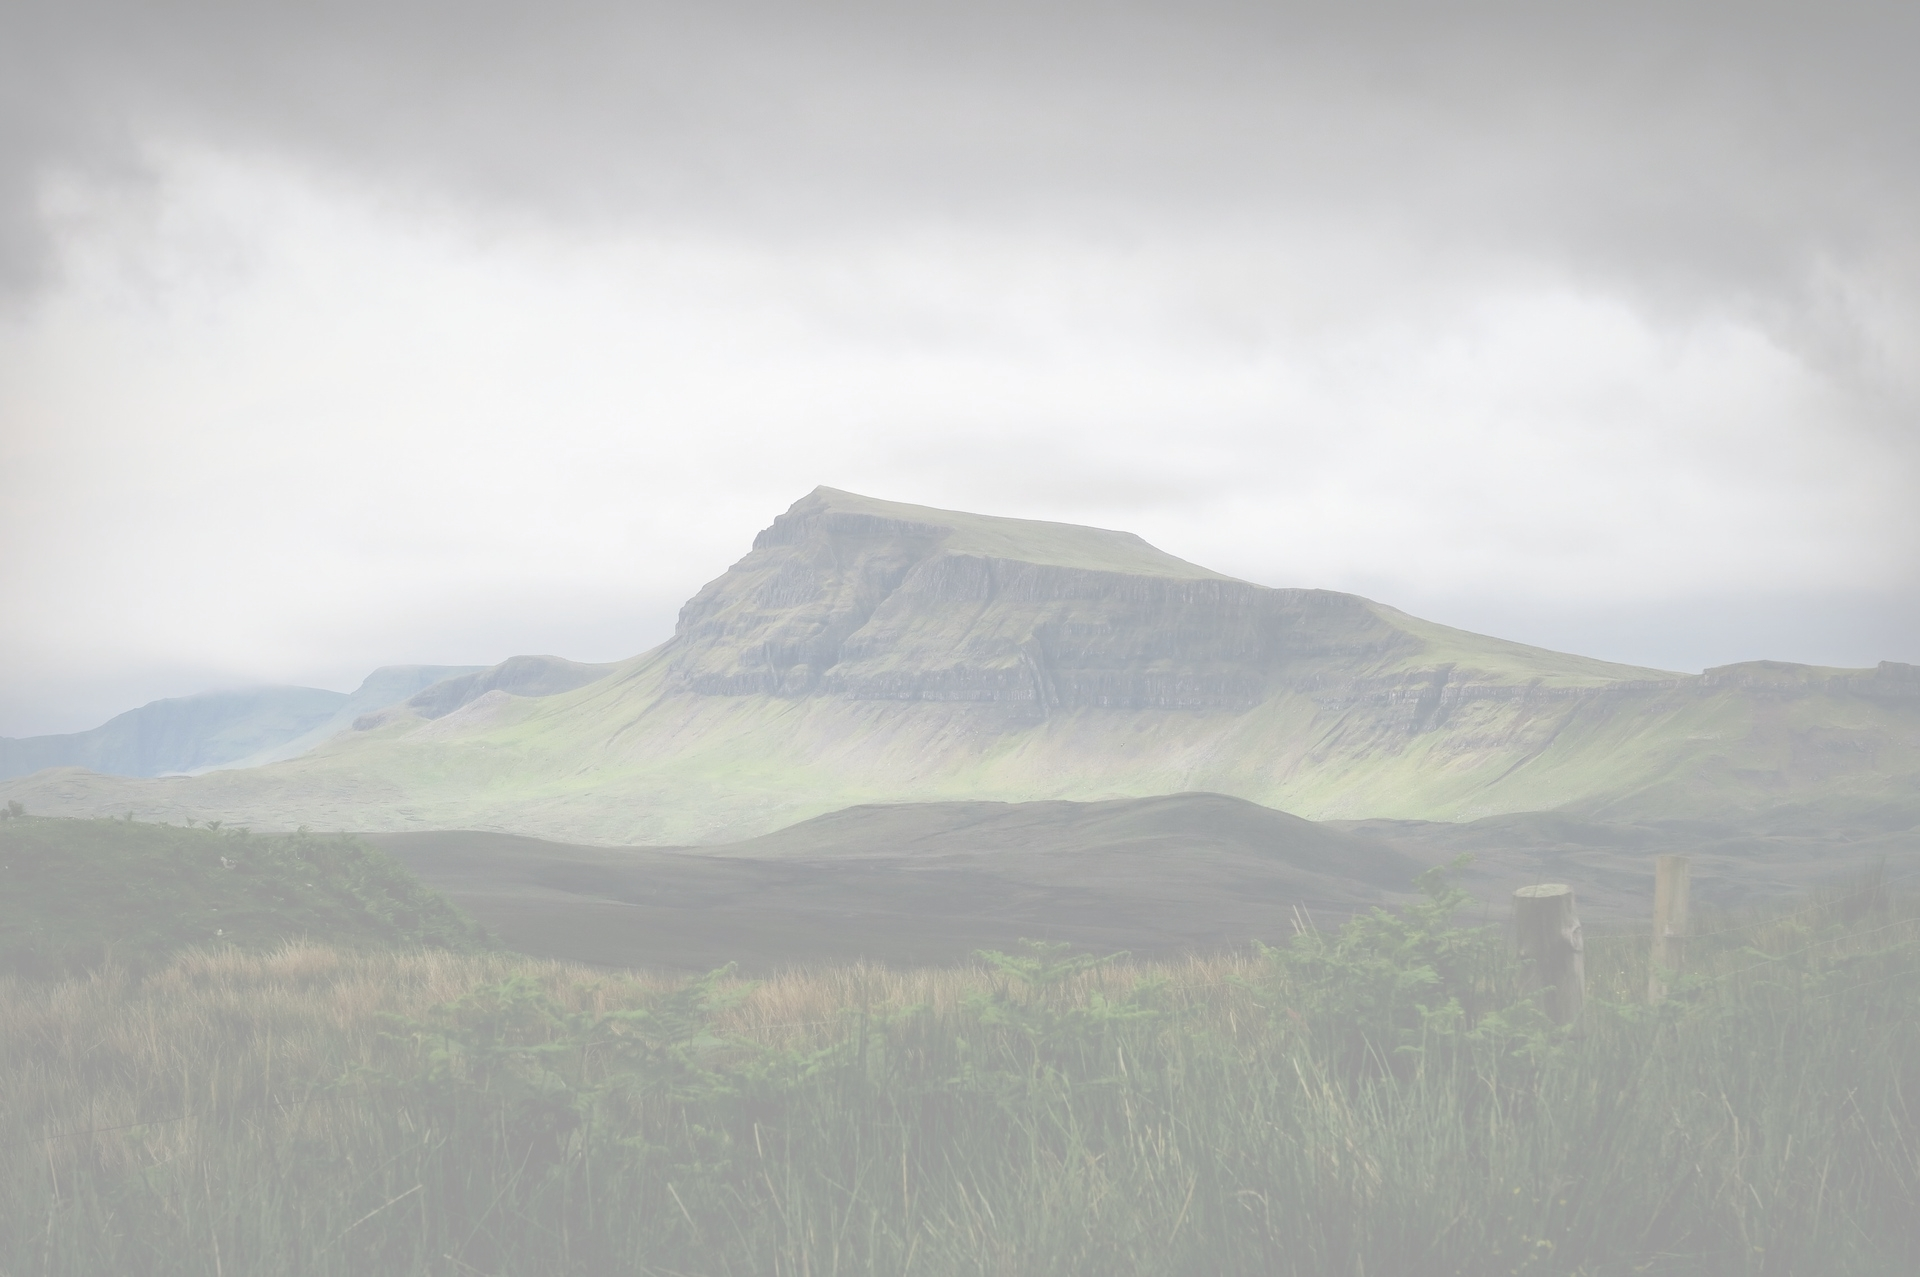
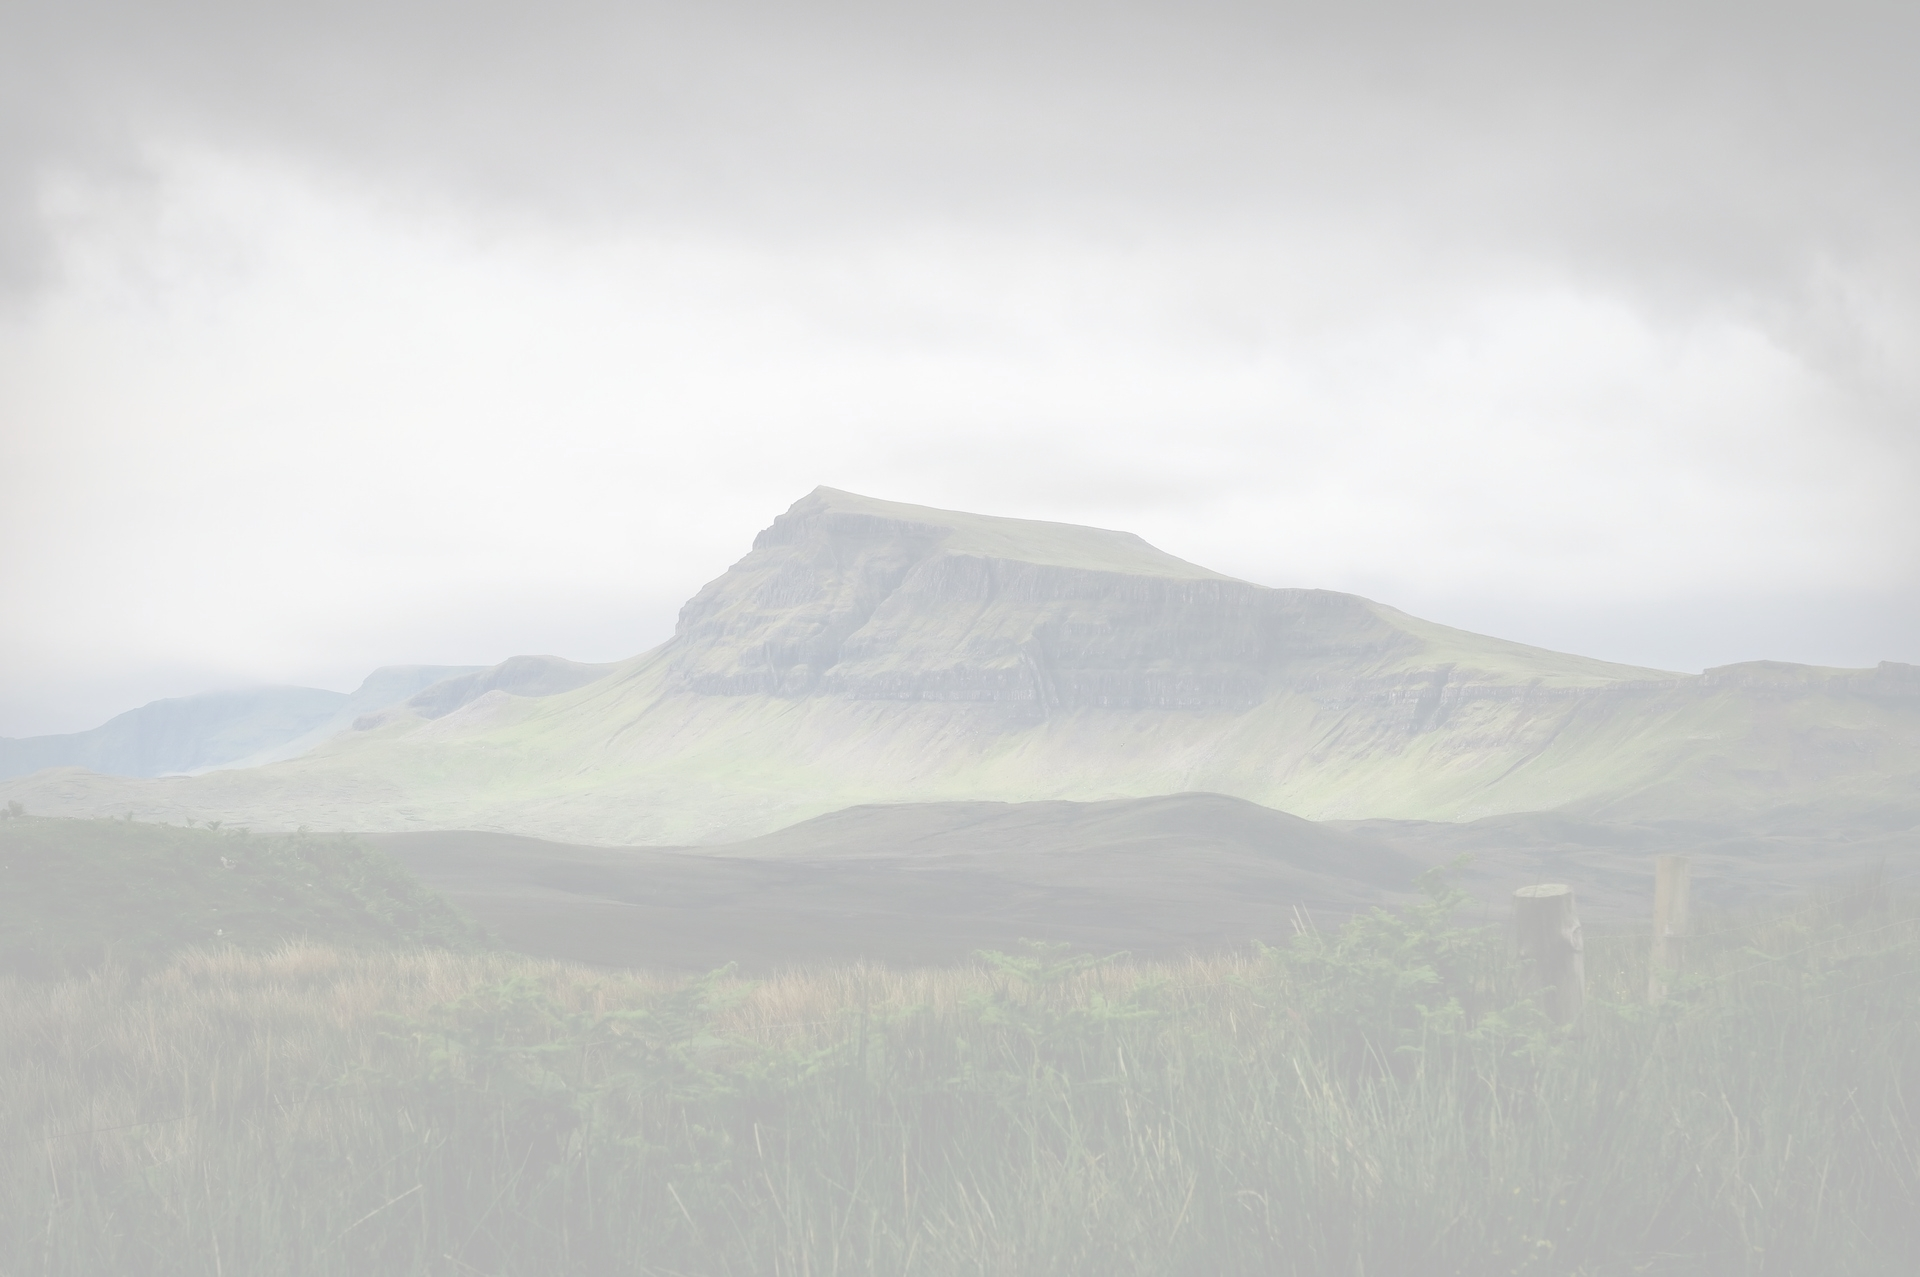
update background to use image of mountain. add meta description.

Changed region(s): [[0.0, 0.6108, 1.0, 1.0], [0.9375, 0.5192, 1.0, 0.5497]]

diff --git a/index.html b/index.html
@@ -4,7 +4,7 @@
         <meta charset="utf-8">
         <meta http-equiv="x-ua-compatible" content="ie=edge">
         <title>Patrick N. McKinney, Cartographer &#38; Developer</title>
-        <meta name="description" content="">
+        <meta name="description" content="Patrick N. McKinney is a cartographer and developer interested in telling the stories of communities through maps and technology.">
         <meta name="viewport" content="width=device-width, initial-scale=1">
 
         <!-- <link rel="apple-touch-icon" href="apple-touch-icon.png"> -->
@@ -28,7 +28,7 @@
             <p>I have helped local governments and non-profits tell their stories through maps for print, interactive web maps, and websites.</p>
             <hr />
             <h3>Connect With Me</h3>
-            <p><a class="btn" href="https://github.com/pmacMaps/">GitHub</a> - <a class="btn" href="https://www.linkedin.com/in/patricknmckinney">LinkedIn</a></p>
+            <p><a class="btn" href="https://github.com/pmacMaps/">GitHub</a> --- <a class="btn" href="https://www.linkedin.com/in/patricknmckinney">LinkedIn</a></p>
         </section>         
 
         <!-- jQuery -->

diff --git a/assets/css/style.css b/assets/css/style.css
@@ -1,5 +1,12 @@
 /*** General ***/
-
+body {
+    background: url(../images/pexels-photo-129882-transparent.jpeg) no-repeat center center fixed; 
+    -webkit-background-size: cover;
+    -moz-background-size: cover;
+    -o-background-size: cover;
+    background-size: cover;
+    color: #222;
+}
 
 /*** Main Content ***/
 .main-content {
@@ -26,7 +33,7 @@
 .main-content hr {
     margin-top: 50px;
     margin-bottom: 50px;
-    border-top-color: #999;
+    border-top-color: #666;
 }
 
 .main-content .btn {
@@ -35,10 +42,10 @@
     color: #fff;
     opacity: 1;
     font-size: 1.15em;
-    transition: color 0.3s;
+    transition: color 0.4s;
 }
 
 .main-content .btn:hover,
 .main-content .btn:focus {
-    color: #000;
+    color: #222;
 }
